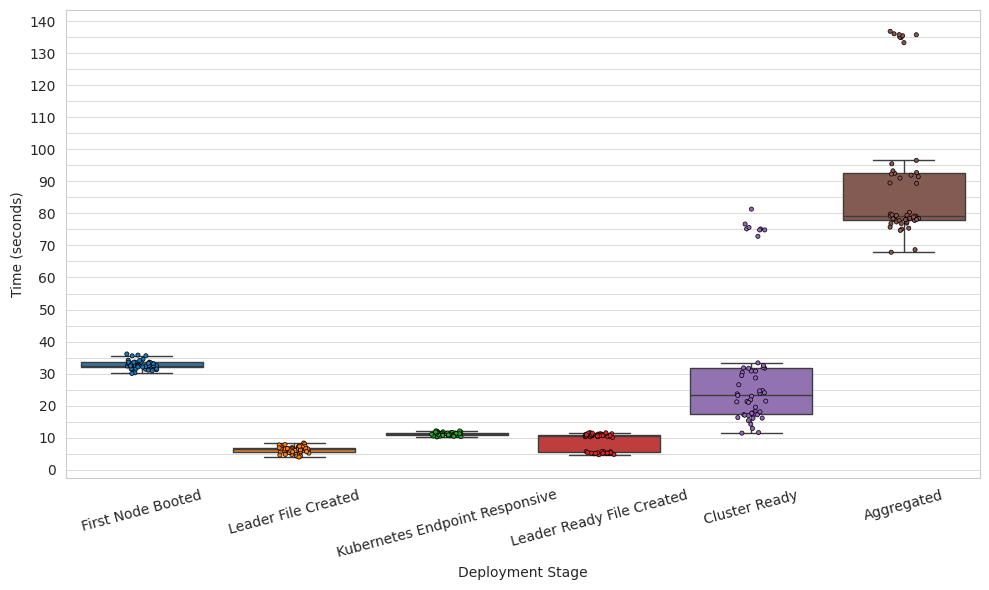
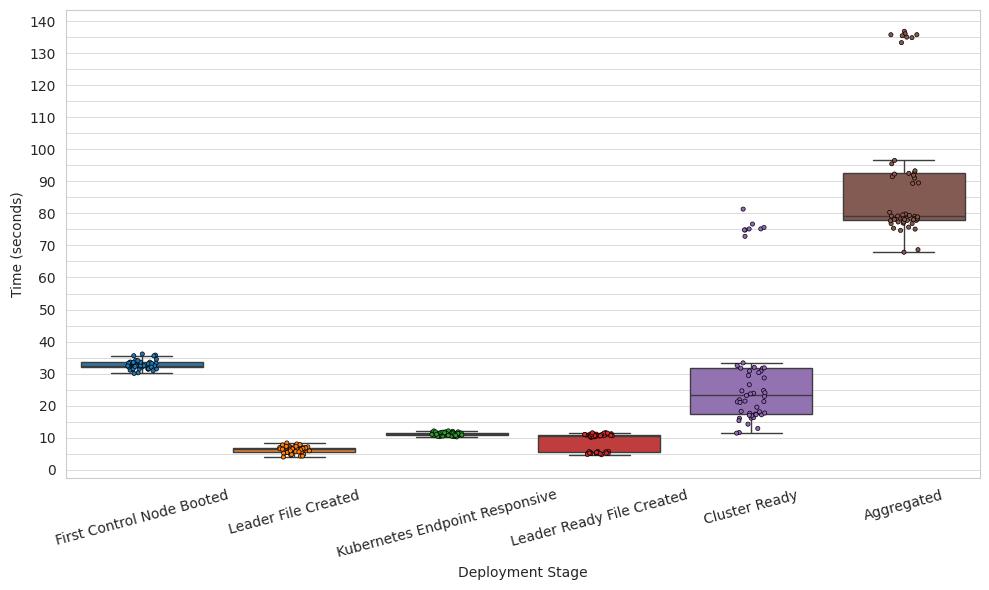
Fixed wording in plot

diff --git a/plots/make-plots.py b/plots/make-plots.py
@@ -18,7 +18,7 @@ for stage in stages:
     print(f"Standard Deviation: {std_dev:.2f} seconds")
     print()
 
-df.columns = ['First Node Booted', 'Leader File Created', 'Kubernetes Endpoint Responsive', 'Leader Ready File Created', 'Cluster Ready', 'Aggregated']
+df.columns = ['First Control Node Booted', 'Leader File Created', 'Kubernetes Endpoint Responsive', 'Leader Ready File Created', 'Cluster Ready', 'Aggregated']
 
 # Generate box diagrams with scatter plot
 plt.figure(figsize=(10, 6))
